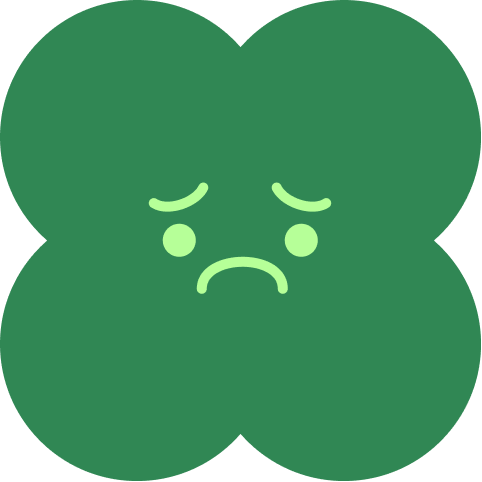
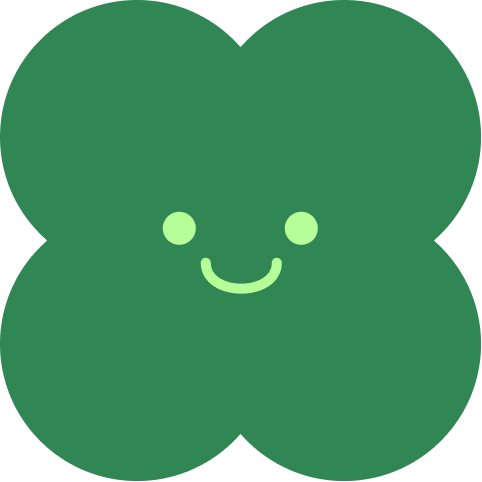
load

Changed region(s): [[0.4046, 0.529, 0.5913, 0.6224], [0.5602, 0.3734, 0.6846, 0.529], [0.3112, 0.3734, 0.4357, 0.529]]

diff --git a/index.html b/index.html
@@ -894,6 +894,6 @@
  </div>
  <div class="offline-overlay" id="offlineOverlay">
   <img src="image/error.png" alt="Нет интернета">
-  <p>нет интернета:(</p>
+  <p>Загрузка...</p>
 </div>
 </body>
